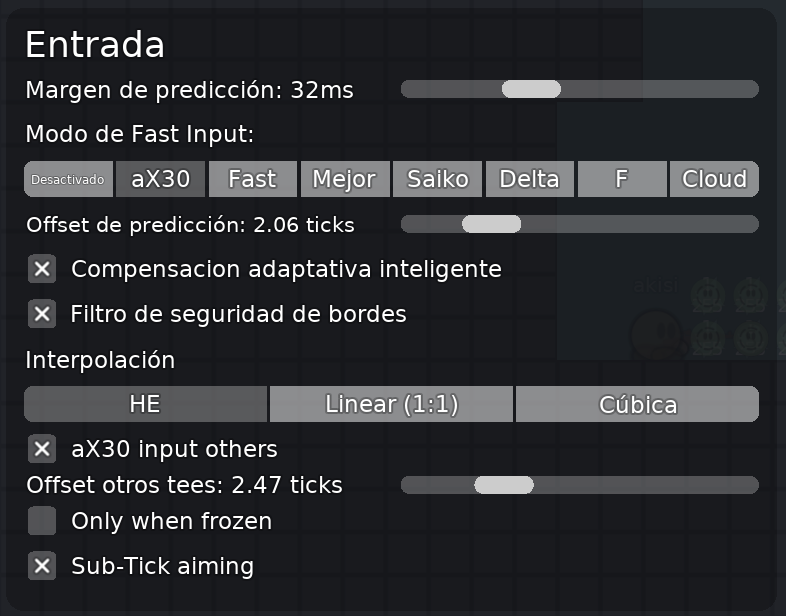
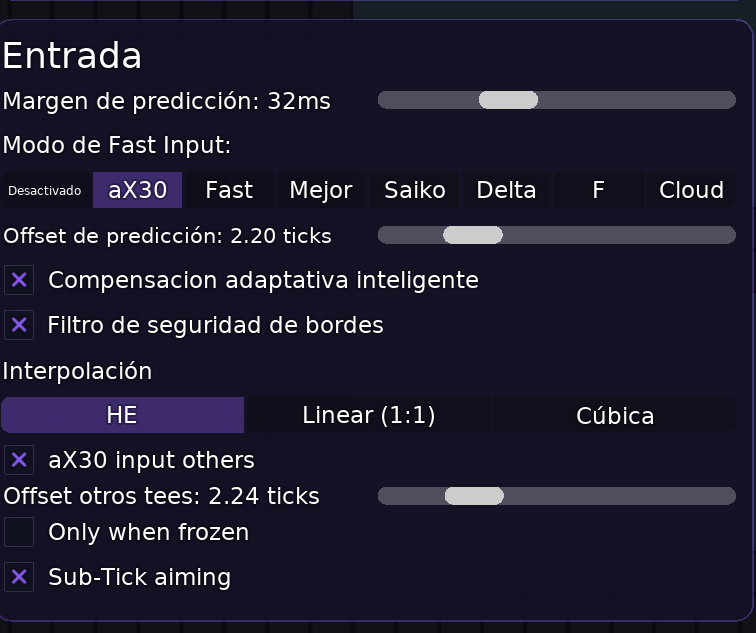
feat(input): actualizar captura de Entrada y descripciones con nuevos controles e interpolaciones

diff --git a/js/i18n.js b/js/i18n.js
@@ -32,7 +32,7 @@ const translations = {
     "hero.hint_rotate": "Girar en 360°",
     "hero.hud1_label": "Fast Input",
     "hero.hud1_unit": "motores",
-    "hero.hud1_sub": "aX30, Fast, Best, Saiko, Delta, F y Cloud",
+    "hero.hud1_sub": "aX30, Fast, Mejor, Saiko, Delta, F y Cloud",
     "hero.hud2_label": "Race Stats",
     "hero.hud2_unit": "criterios",
     "hero.hud2_sub": "Ranking en vivo estilo F1 con destellos",
@@ -80,7 +80,7 @@ const translations = {
     "vision.chip2": "Configuración ac_ aislada",
     "vision.chip3": "Scripts ChaiScript",
     "vision.card_title": "Panel de Entrada",
-    "vision.card_sub": "Modos, offsets, interpolación y sub-tick aiming",
+    "vision.card_sub": "Modos, offsets, compensación adaptativa, filtro de bordes e interpolación",
 
     // Race Stats
     "stats.eyebrow": "Race Stats",
@@ -104,6 +104,7 @@ const translations = {
     "input.title": "SIETE MOTORES, TU ELECCIÓN",
     "input.desc": "Mové el cursor sobre la señal para jugar con la forma de la onda y elegí un motor para ver cómo cambia su ritmo. Es una ilustración: cada motor ajusta cuán rápido responde tu input.",
     "input.control_label": "MODO DE FAST INPUT:",
+    "input.btn_best": "Mejor",
 
     // Gallery
     "gallery.eyebrow": "En acción",
@@ -126,7 +127,7 @@ const translations = {
     "modules.title": "TODO LO QUE INCLUYE",
     "modules.spec1_title": "Fast Input",
     "modules.spec1_badge": "7 motores",
-    "modules.spec1_desc": "aX30, Fast, Best, Saiko, Delta, F y Cloud. Margen y offset de predicción, compensación adaptativa, interpolación y sub-tick aiming, con control independiente para otros tees y repredicción de hook.",
+    "modules.spec1_desc": "aX30, Fast, Mejor, Saiko, Delta, F y Cloud. Margen y offset de predicción, compensación adaptativa inteligente, filtro de seguridad de bordes, interpolación (HE, 1:1, Cúbica), sub-tick aiming y control para otros tees.",
     "modules.spec2_title": "Race Stats & HUD",
     "modules.spec2_badge": "8 criterios",
     "modules.spec2_desc": "Detección de saves (hammer y hook), ranking animado estilo F1, HUD configurable en escala, posición y opacidad, e historial con auto-guardado.",
@@ -253,7 +254,7 @@ const translations = {
     "vision.chip2": "Configuração ac_ isolada",
     "vision.chip3": "Scripts ChaiScript",
     "vision.card_title": "Painel de Entrada",
-    "vision.card_sub": "Modos, offsets, interpolação e sub-tick aiming",
+    "vision.card_sub": "Modos, offsets, compensação adaptativa, filtro de bordas e interpolação",
 
     // Race Stats
     "stats.eyebrow": "Race Stats",
@@ -277,6 +278,7 @@ const translations = {
     "input.title": "SETE MOTORES, SUA ESCOLHA",
     "input.desc": "Mova o cursor sobre o sinal para modular a onda e selecione um motor para ver a frequência mudar. É uma ilustração: cada motor ajusta a rapidez de resposta do seu input.",
     "input.control_label": "MODO DE FAST INPUT:",
+    "input.btn_best": "Melhor",
 
     // Gallery
     "gallery.eyebrow": "Em ação",
@@ -299,7 +301,7 @@ const translations = {
     "modules.title": "TUDO O QUE ESTÁ INCLUSO",
     "modules.spec1_title": "Fast Input",
     "modules.spec1_badge": "7 motores",
-    "modules.spec1_desc": "aX30, Fast, Melhor, Saiko, Delta, F e Cloud. Margem e offset de predição, compensação adaptativa, interpolação e sub-tick aiming, com controle para outros tees e repredição de hook.",
+    "modules.spec1_desc": "aX30, Fast, Melhor, Saiko, Delta, F e Cloud. Margem e offset de predição, compensação adaptativa inteligente, filtro de segurança de bordas, interpolação (HE, 1:1, Cúbica), sub-tick aiming e controle para outros tees.",
     "modules.spec2_title": "Race Stats & HUD",
     "modules.spec2_badge": "8 critérios",
     "modules.spec2_desc": "Detecção de saves (hammer e hook), ranking animado estilo F1, HUD configurável em escala, posição e opacidade, e histórico com auto-salvamento.",
@@ -426,7 +428,7 @@ const translations = {
     "vision.chip2": "Isolated ac_ configuration",
     "vision.chip3": "ChaiScript engine",
     "vision.card_title": "Input Panel",
-    "vision.card_sub": "Modes, offsets, interpolation, and sub-tick aiming",
+    "vision.card_sub": "Modes, offsets, adaptive compensation, edge safety filter, and interpolation",
 
     // Race Stats
     "stats.eyebrow": "Race Stats",
@@ -450,6 +452,7 @@ const translations = {
     "input.title": "SEVEN ENGINES, YOUR CHOICE",
     "input.desc": "Move your cursor across the signal to modulate the wave and select an engine to observe frequency changes. An interactive visualization of input responsiveness.",
     "input.control_label": "FAST INPUT ENGINE:",
+    "input.btn_best": "Best",
 
     // Gallery
     "gallery.eyebrow": "In action",
@@ -472,7 +475,7 @@ const translations = {
     "modules.title": "EVERYTHING INCLUDED",
     "modules.spec1_title": "Fast Input",
     "modules.spec1_badge": "7 engines",
-    "modules.spec1_desc": "aX30, Fast, Best, Saiko, Delta, F, and Cloud. Prediction margin & offset, adaptive smart compensation, interpolation, sub-tick aiming, independent others' control, and hook reprediction.",
+    "modules.spec1_desc": "aX30, Fast, Best, Saiko, Delta, F, and Cloud. Prediction margin & offset, smart adaptive compensation, boundary safety filter, interpolation (HE, 1:1, Cubic), sub-tick aiming, and independent others' control.",
     "modules.spec2_title": "Race Stats & HUD",
     "modules.spec2_badge": "8 criteria",
     "modules.spec2_desc": "Dual hammer & hook save detection, F1-style animated position ladder, configurable scale, position, and opacity, plus persistent auto-save logging.",

diff --git a/index.html b/index.html
@@ -233,7 +233,7 @@
           <div class="hud-item">
             <span class="hud-label" data-i18n="hero.hud1_label">Fast Input</span>
             <div class="hud-value">7<span data-i18n="hero.hud1_unit">motores</span></div>
-            <span class="hud-detail" data-i18n="hero.hud1_sub">aX30, Fast, Best, Saiko, Delta, F y Cloud</span>
+            <span class="hud-detail" data-i18n="hero.hud1_sub">aX30, Fast, Mejor, Saiko, Delta, F y Cloud</span>
           </div>
 
           <div class="hud-item">
@@ -278,7 +278,7 @@
           <div class="synth-triggers">
             <button class="tone-button" data-freq="330" data-wave="0.008"><span>aX30</span></button>
             <button class="tone-button" data-freq="392" data-wave="0.010"><span>Fast</span></button>
-            <button class="tone-button" data-freq="440" data-wave="0.012"><span>Best</span></button>
+            <button class="tone-button" data-freq="440" data-wave="0.012"><span data-i18n="input.btn_best">Mejor</span></button>
             <button class="tone-button" data-freq="494" data-wave="0.015"><span>Saiko</span></button>
             <button class="tone-button" data-freq="587" data-wave="0.018"><span>Delta</span></button>
             <button class="tone-button" data-freq="659" data-wave="0.021"><span>F</span></button>
@@ -423,7 +423,7 @@
             <div class="visual-card-caption">
               <div>
                 <div class="caption-title" data-i18n="vision.card_title">Panel de Entrada</div>
-                <p style="font-size: 0.85rem; color: var(--text-muted); margin-top: 4px;" data-i18n="vision.card_sub">Modos, offsets, interpolación y sub-tick aiming</p>
+                <p style="font-size: 0.85rem; color: var(--text-muted); margin-top: 4px;" data-i18n="vision.card_sub">Modos, offsets, compensación adaptativa, filtro de bordes e interpolación</p>
               </div>
             </div>
           </div>
@@ -537,7 +537,7 @@
           <span class="spec-num">// 01</span>
           <h3 class="spec-title" data-i18n="modules.spec1_title">Fast Input</h3>
           <div class="spec-value-badge" data-i18n="modules.spec1_badge">7 motores</div>
-          <p class="spec-body" data-i18n="modules.spec1_desc">aX30, Fast, Best, Saiko, Delta, F y Cloud. Margen y offset de predicción, compensación adaptativa, interpolación y sub-tick aiming, con control independiente para otros tees y repredicción de hook.</p>
+          <p class="spec-body" data-i18n="modules.spec1_desc">aX30, Fast, Mejor, Saiko, Delta, F y Cloud. Margen y offset de predicción, compensación adaptativa inteligente, filtro de seguridad de bordes, interpolación (HE, 1:1, Cúbica), sub-tick aiming y control para otros tees.</p>
         </div>
 
         <div class="spec-tile">
